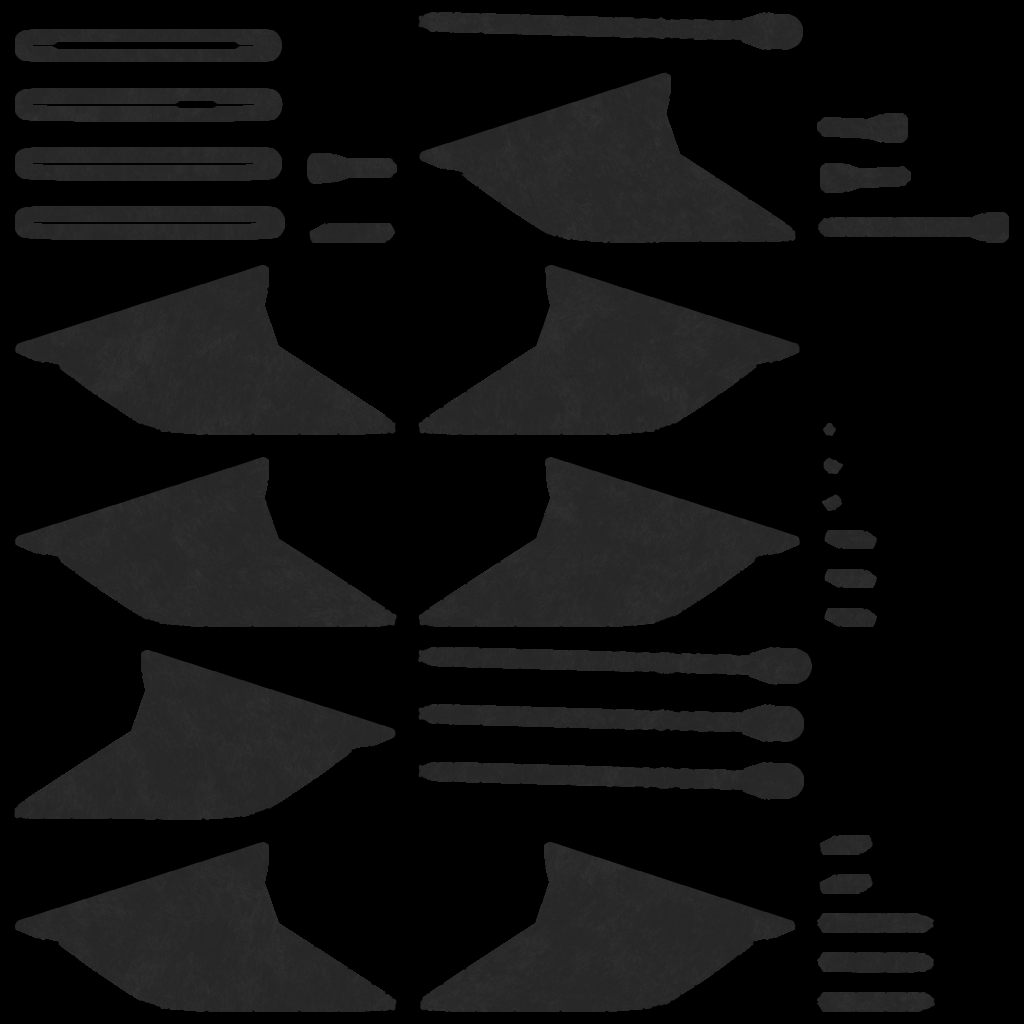
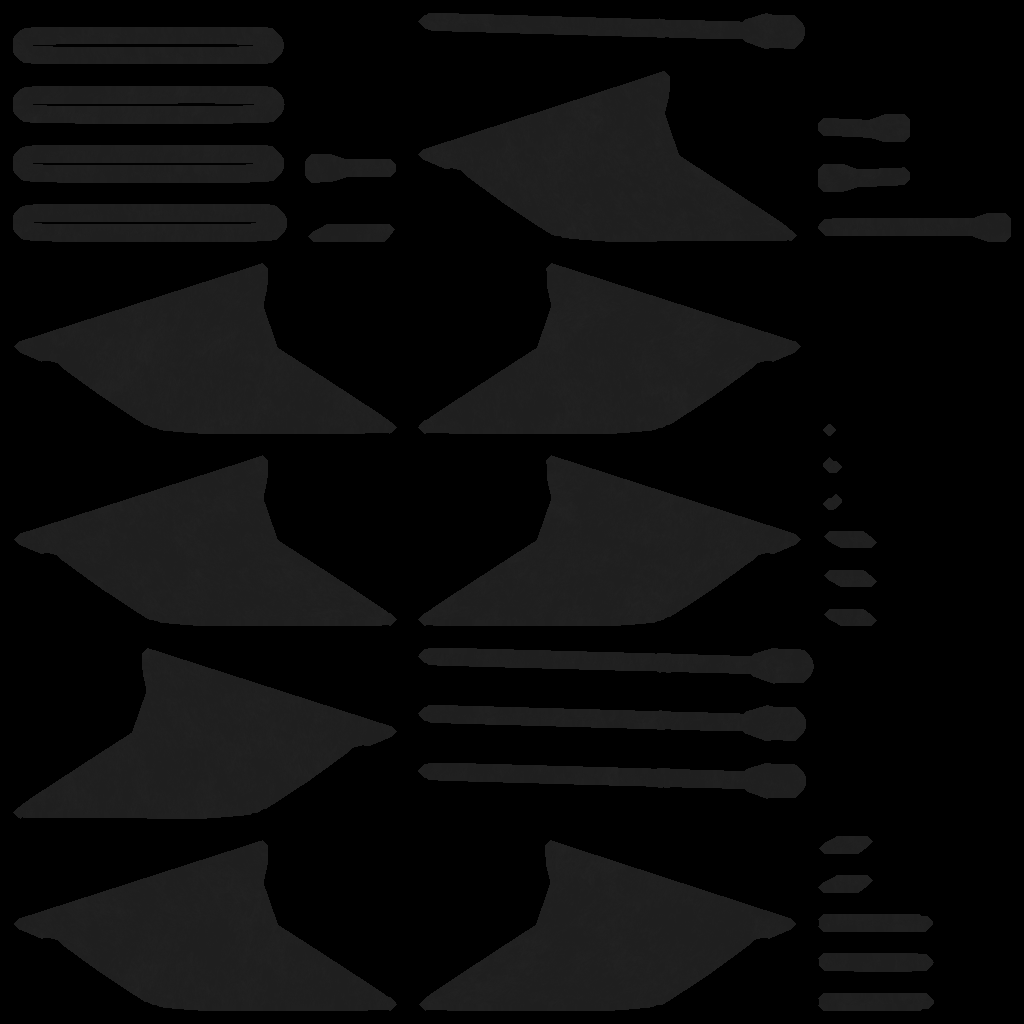
Fin AO and rough

Changed region(s): [[0.0625, 0.0312, 0.25, 0.0625], [0.1562, 0.0938, 0.2188, 0.125]]

diff --git a/src/components/Rocket3d/RocketModel.tsx b/src/components/Rocket3d/RocketModel.tsx
@@ -22,6 +22,9 @@ const EasyNodeToMesh = ({
 );
 
 export const RocketModel = forwardRef((props, ref) => {
+  const finAO = useTexture("/scenes3d/rocket/Fin AO.png", (tex) => {
+    tex.flipY = false;
+  });
   const finRoughnessMap = useTexture(
     "/scenes3d/rocket/Fin Roughness.png",
     (tex) => {
@@ -118,10 +121,12 @@ export const RocketModel = forwardRef((props, ref) => {
       >
         <meshPhysicalMaterial
           color="#d02035"
+          aoMap={finAO}
+          aoMapIntensity={1}
           metalness={1}
           roughnessMap={finRoughnessMap}
           bumpMap={finRoughnessMap}
-          bumpScale={0.2}
+          bumpScale={1}
           roughness={1}
           clearcoat={1}
           clearcoatRoughness={0.03}
